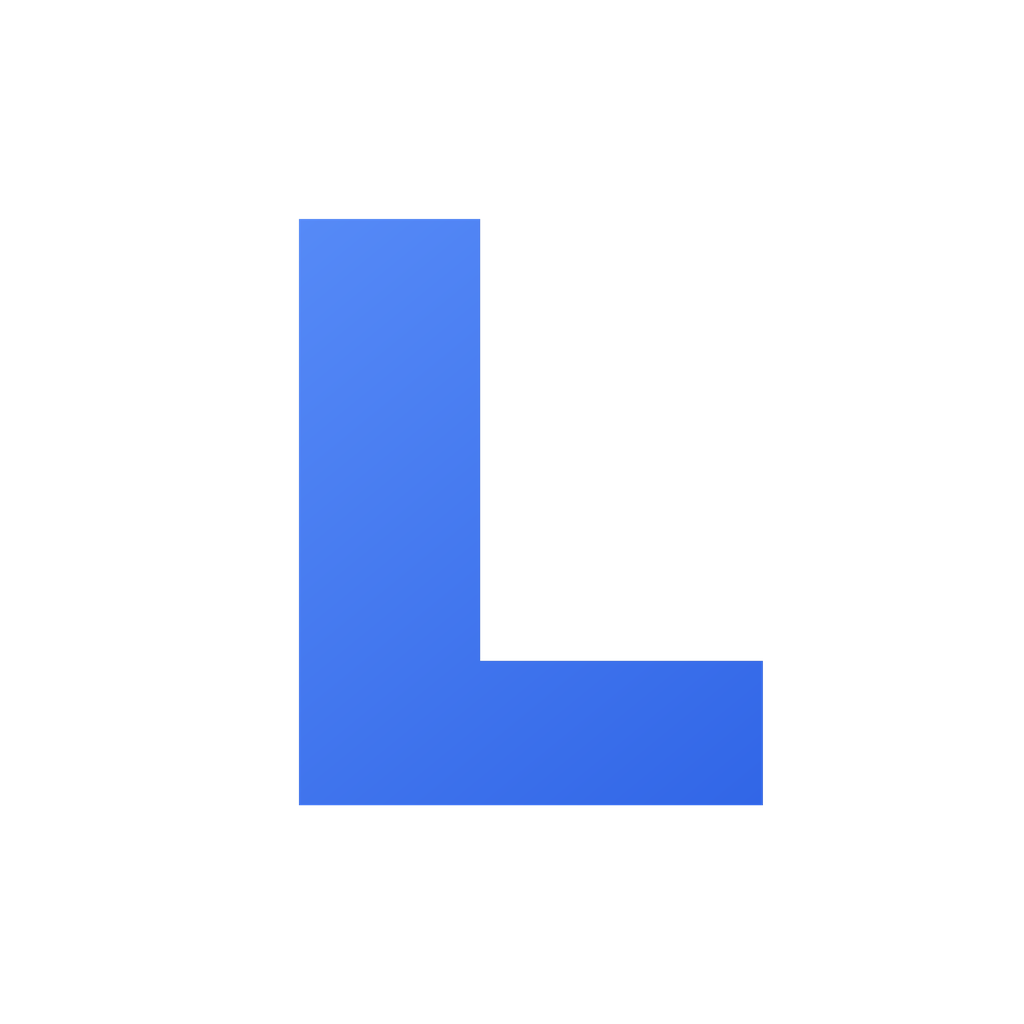
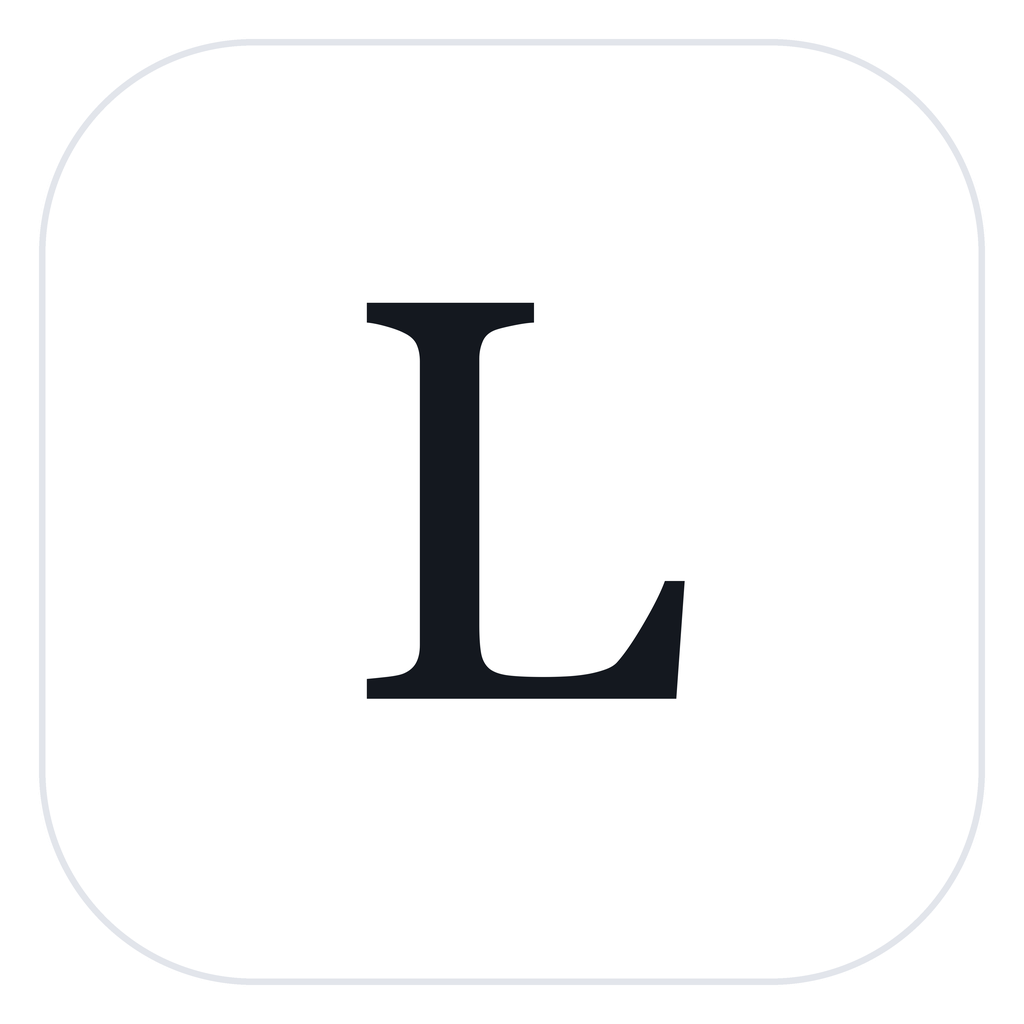
图标回到白卡片 + 衬线 L（深墨色，无横线）；修复文件关联被临时副本覆盖
- 图标：白圆角卡片 + Georgia 衬线 L + 细边，10 个尺寸
- 修复：从临时目录/测试参数启动时不再注册文件关联
  （之前测试运行会把 DefaultIcon 指到 %TEMP%，临时目录被清理后图标就变回别的程序）
- 启动时清理改名遗留的 MarkEdit.md 键

diff --git a/src/MainForm.cs b/src/MainForm.cs
@@ -59,12 +59,50 @@ namespace Lanyu
             }
         }
 
+        /* 判断这次启动是否该注册文件关联 */
+        private static bool ShouldRegisterAssoc(string[] args)
+        {
+            // 自动化/导出模式不碰注册表
+            foreach (var a in args)
+            {
+                if (a == null) continue;
+                if (a.StartsWith("--shot", StringComparison.OrdinalIgnoreCase) ||
+                    a.StartsWith("--eval", StringComparison.OrdinalIgnoreCase) ||
+                    a.StartsWith("--pdf", StringComparison.OrdinalIgnoreCase) ||
+                    a.StartsWith("--docx", StringComparison.OrdinalIgnoreCase)) return false;
+            }
+
+            // 临时目录里跑的（比如解压后直接双击、或从压缩包内启动）也不注册
+            try
+            {
+                var exe = Application.ExecutablePath;
+                var temp = Path.GetTempPath();
+                var localTemp = Path.Combine(Environment.GetFolderPath(Environment.SpecialFolder.LocalApplicationData), "Temp");
+                if (!string.IsNullOrEmpty(temp) && exe.StartsWith(temp, StringComparison.OrdinalIgnoreCase)) return false;
+                if (!string.IsNullOrEmpty(localTemp) && exe.StartsWith(localTemp, StringComparison.OrdinalIgnoreCase)) return false;
+                if (exe.IndexOf(@"\AppData\Local\Temp\", StringComparison.OrdinalIgnoreCase) >= 0) return false;
+                if (exe.IndexOf(@"\Temp\", StringComparison.OrdinalIgnoreCase) >= 0) return false;
+            }
+            catch { }
+
+            return true;
+        }
         [STAThread]
         private static void Main(string[] args)
         {
             DataDir = ResolveDataDir();
             Log("=== start: " + string.Join(" ", args));
-            try { Assoc.Register(); } catch (Exception ex) { Log("assoc auto fail: " + ex.Message); }
+            // 只在「真正的安装位置」注册关联：
+            // 从临时目录跑（含解压后直接双击）或自动化测试时不要抢关联，否则会把
+            // DefaultIcon 指到临时路径，Windows 清掉临时目录后图标就变成别的程序的了
+            if (ShouldRegisterAssoc(args))
+            {
+                try { Assoc.Register(); } catch (Exception ex) { Log("assoc auto fail: " + ex.Message); }
+            }
+            else
+            {
+                Log("assoc skipped (temp path or test flags)");
+            }
             AppDomain.CurrentDomain.UnhandledException += (s, e) => Log("UNHANDLED: " + e.ExceptionObject);
             Application.ThreadException += (s, e) => Log("THREAD EXC: " + e.Exception);
             Application.SetUnhandledExceptionMode(UnhandledExceptionMode.CatchException);
